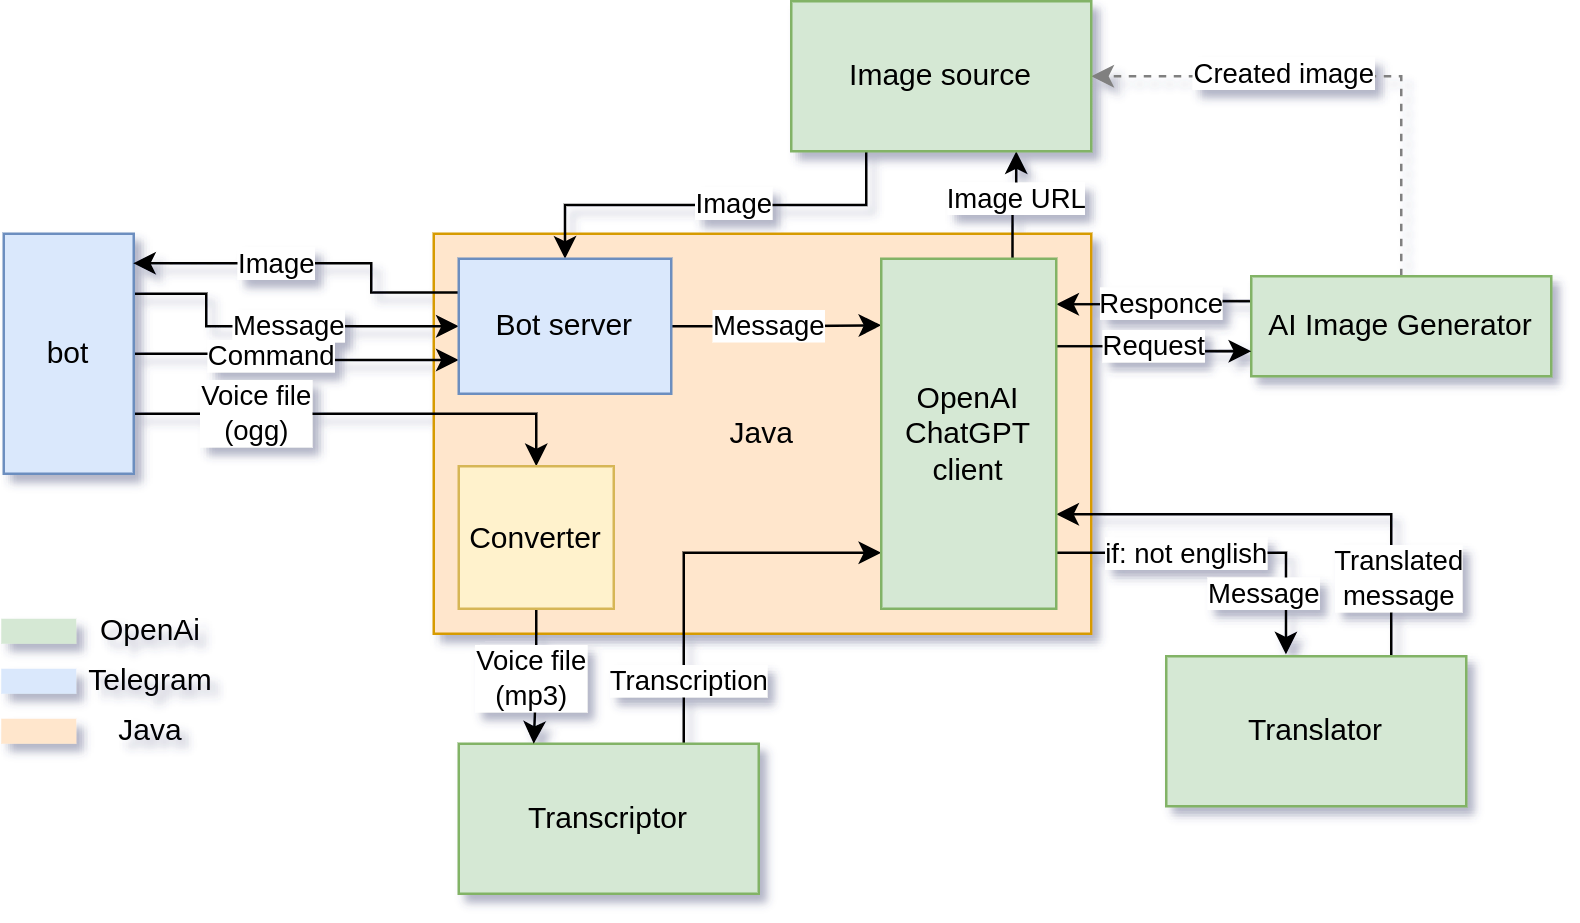
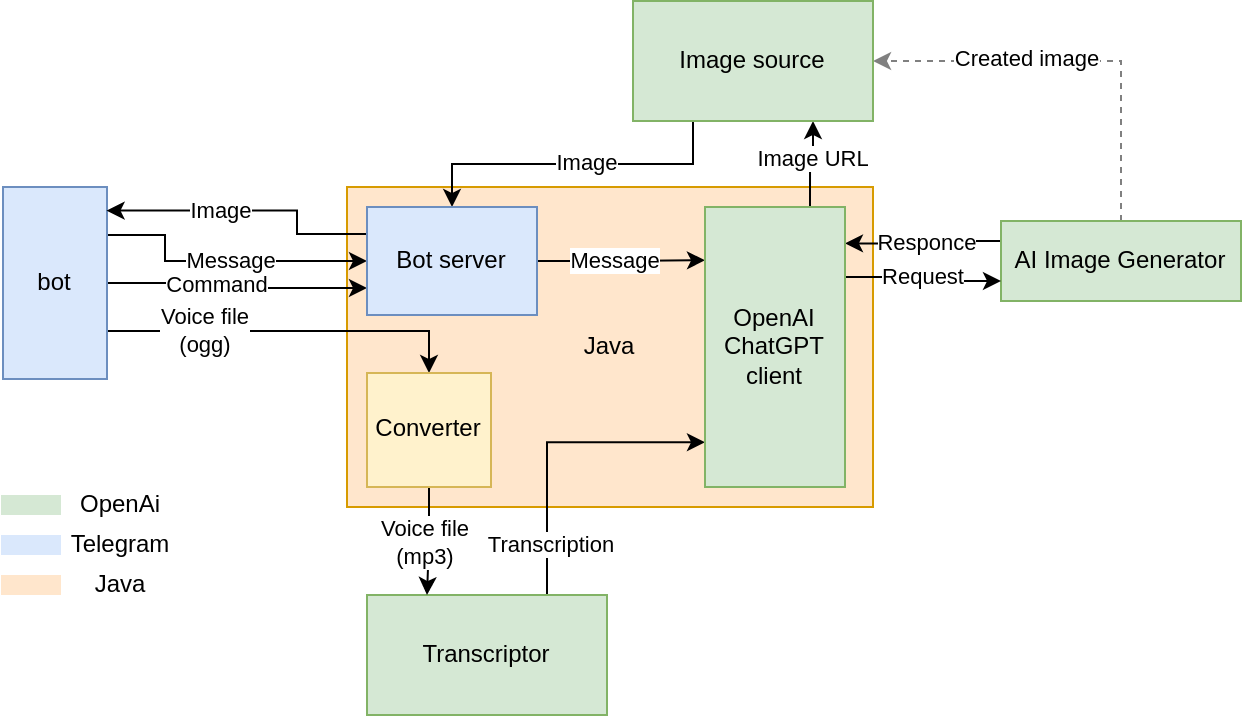
IG-19: Configured audio conversions. Configured sending audio to OpenAI for transcriptions

Changed region(s): [[0.0, 0.0, 1.0, 1.0], [0.0, 0.6435, 0.153, 0.8273], [0.4589, 0.4596, 0.5201, 0.4903]]

diff --git a/src/main/java/com/vansisto/aiimagebot/services/converter/AudioConverter.java b/src/main/java/com/vansisto/aiimagebot/services/converter/AudioConverter.java
@@ -1,0 +1,74 @@
+package com.vansisto.aiimagebot.services.converter;
+
+import lombok.extern.slf4j.Slf4j;
+
+import java.io.BufferedReader;
+import java.io.File;
+import java.io.IOException;
+import java.io.InputStreamReader;
+import java.util.concurrent.CompletableFuture;
+
+@Slf4j
+public class AudioConverter {
+
+    private AudioConverter(){}
+
+    public static CompletableFuture<File> convertOggToMp3(File sourceOggFile, File targetMp3File) {
+        return CompletableFuture.supplyAsync(() -> {
+            File outputDirectory = createOutputDirectory("voiceOutput");
+            File outputFile = new File(outputDirectory, targetMp3File.getName());
+            executeFFmpeg(sourceOggFile, outputFile);
+
+            return outputFile;
+        });
+    }
+
+    private static File createOutputDirectory(String directoryName) {
+        File outputDirectory = new File(directoryName);
+        if (!outputDirectory.exists()) {
+            outputDirectory.mkdir();
+        }
+        return outputDirectory;
+    }
+
+    private static void executeFFmpeg(File sourceOggFile, File outputFile) {
+        ProcessBuilder processBuilder = new ProcessBuilder(
+                "ffmpeg",
+                "-i", sourceOggFile.getAbsolutePath(),
+                "-codec:a", "libmp3lame",
+                "-qscale:a", "5",
+                "-b:a", "96k",
+                "-ar", "22050",
+                "-ac", "1",
+                "-filter:a", "loudnorm,atempo=1.5",
+                outputFile.getAbsolutePath()
+        );
+
+        try {
+            Process process = processBuilder.start();
+            logProcessOutput(process);
+            int exitCode = process.waitFor();
+            log.info(exitCode == 0 ? "Convert done." : "An error occurred during conversion. Code: " + exitCode);
+        } catch (IOException e) {
+            e.printStackTrace();
+        } catch (InterruptedException e) {
+            e.printStackTrace();
+            Thread.currentThread().interrupt();        }
+    }
+
+    private static void logProcessOutput(Process process) throws IOException {
+        try (BufferedReader stdoutReader = new BufferedReader(new InputStreamReader(process.getInputStream()))) {
+            String line;
+            while ((line = stdoutReader.readLine()) != null) {
+                log.info("STDOUT: " + line);
+            }
+        }
+
+        try (BufferedReader stderrReader = new BufferedReader(new InputStreamReader(process.getErrorStream()))) {
+            String line;
+            while ((line = stderrReader.readLine()) != null) {
+                log.error("STDERR: " + line);
+            }
+        }
+    }
+}

diff --git a/src/main/java/com/vansisto/aiimagebot/services/bot/handler/handlers/VoiceHandler.java b/src/main/java/com/vansisto/aiimagebot/services/bot/handler/handlers/VoiceHandler.java
@@ -5,20 +5,62 @@ import com.pengrad.telegrambot.model.Voice;
 import com.pengrad.telegrambot.request.SendMessage;
 import com.vansisto.aiimagebot.services.bot.handler.AbstractHandler;
 import com.vansisto.aiimagebot.services.bot.handler.UpdateHandler;
+import com.vansisto.aiimagebot.services.converter.AudioConverter;
+import com.vansisto.aiimagebot.services.converter.TelegramFileDownloader;
+import com.vansisto.aiimagebot.services.openai.RequestsExecutor;
+import lombok.extern.slf4j.Slf4j;
+import org.springframework.beans.factory.annotation.Autowired;
 import org.springframework.stereotype.Service;
 
+import java.io.File;
+import java.io.IOException;
+import java.nio.file.Files;
 import java.util.Objects;
+import java.util.concurrent.CompletableFuture;
 
 import static com.vansisto.aiimagebot.services.UpdateUtil.getChatId;
 import static com.vansisto.aiimagebot.services.UpdateUtil.getVoice;
 
+@Slf4j
 @Service
 public class VoiceHandler extends AbstractHandler implements UpdateHandler {
+
+    @Autowired
+    private TelegramFileDownloader telegramFileDownloader;
+
     @Override
     public void handle(Update update) {
         Voice voice = getVoice(update);
         long chatId = getChatId(update);
-        bot.execute(new SendMessage(chatId, "Це аудіофайл: " + voice.fileId()));
+
+        try {
+            File sourceOggFile = telegramFileDownloader.downloadVoiceFile(voice);
+            File targetMp3File = new java.io.File(update.updateId() + ".mp3");
+            CompletableFuture<File> conversionFuture = AudioConverter.convertOggToMp3(sourceOggFile, targetMp3File);
+            String token = settingsService.getOpenAiApiKey();
+
+            conversionFuture.thenAccept(convertedFile -> {
+                String response = RequestsExecutor.sendTranscriptionRequest(token, convertedFile);
+                bot.execute(new SendMessage(chatId, response));
+
+                try {
+                    Files.delete(sourceOggFile.toPath());
+                    log.info("Source deleted.");
+                } catch (IOException e) {
+                    log.error("Failed to delete source file: ", e);
+                }
+
+                try {
+                    Files.delete(convertedFile.toPath());
+                    log.info("Output file deleted.");
+                } catch (IOException e) {
+                    log.error("Failed to delete output file: ", e);
+                }
+            });
+
+        } catch (IOException e) {
+            e.printStackTrace();
+        }
     }
 
     @Override

diff --git a/src/main/java/com/vansisto/aiimagebot/services/settings/service/impl/SettingsServiceImpl.java b/src/main/java/com/vansisto/aiimagebot/services/settings/service/impl/SettingsServiceImpl.java
@@ -1,6 +1,7 @@
 package com.vansisto.aiimagebot.services.settings.service.impl;
 
 import com.pengrad.telegrambot.model.Update;
+import com.vansisto.aiimagebot.config.UpdateCache;
 import com.vansisto.aiimagebot.services.settings.KeySetting;
 import com.vansisto.aiimagebot.services.settings.UpdateType;
 import com.vansisto.aiimagebot.services.settings.UserSetting;
@@ -31,14 +32,16 @@ public class SettingsServiceImpl implements SettingsService {
     @Value("${app.openai.token:}")
     private String aiApiKey;
 
-    private final HashOperations<String, String, String> hashOperations;
     private static final String KEY = "KeySetting";
+    private final HashOperations<String, String, String> hashOperations;
     private final UsersCache usersCache;
+    private final UpdateCache updateCache;
 
     public SettingsServiceImpl(RedisTemplate<String, String> redisTemplate,
-                               UsersCache usersCache) {
+                               UsersCache usersCache, UpdateCache updateCache) {
         hashOperations = redisTemplate.opsForHash();
         this.usersCache = usersCache;
+        this.updateCache = updateCache;
     }
 
     @PostConstruct
@@ -66,6 +69,11 @@ public class SettingsServiceImpl implements SettingsService {
                 : map.entrySet().stream()
                     .map(entry -> new KeySetting(entry.getKey(), entry.getValue()))
                     .collect(Collectors.toSet());
+    }
+
+    @Override
+    public String getOpenAiApiKey() {
+        return usersCache.getByUpdate(updateCache.getUpdate()).getOpenAiApiKey();
     }
 
     @Override

diff --git a/src/main/java/com/vansisto/aiimagebot/services/openai/requests/transcript/Transcription.java b/src/main/java/com/vansisto/aiimagebot/services/openai/requests/transcript/Transcription.java
@@ -1,0 +1,36 @@
+package com.vansisto.aiimagebot.services.openai.requests.transcript;
+
+import com.vansisto.aiimagebot.services.settings.UsersCache;
+import lombok.RequiredArgsConstructor;
+import okhttp3.MediaType;
+import okhttp3.MultipartBody;
+import okhttp3.Request;
+import okhttp3.RequestBody;
+import org.springframework.stereotype.Component;
+
+import java.io.File;
+
+@Component
+@RequiredArgsConstructor
+public class Transcription {
+    private static final MediaType MEDIA_TYPE_MP3 = MediaType.parse("audio/mp3");
+
+    private final UsersCache usersCache;
+
+    public static Request createRequest(String token, File file) {
+        RequestBody requestBody = new MultipartBody.Builder()
+                .setType(MultipartBody.FORM)
+                .addFormDataPart("file", file.getName(), RequestBody.create(file, MEDIA_TYPE_MP3))
+                .addFormDataPart("model", "whisper-1")
+                .addFormDataPart("response_format", "text")
+                .build();
+
+        return new Request.Builder()
+                .url("https://api.openai.com/v1/audio/translations")
+                .post(requestBody)
+                .header("Authorization", "Bearer " + token)
+                .header("Content-Type", "multipart/form-data")
+                .build();
+
+    }
+}

diff --git a/src/main/java/com/vansisto/aiimagebot/services/converter/TelegramFileDownloader.java b/src/main/java/com/vansisto/aiimagebot/services/converter/TelegramFileDownloader.java
@@ -1,0 +1,33 @@
+package com.vansisto.aiimagebot.services.converter;
+
+import com.pengrad.telegrambot.TelegramBot;
+import com.pengrad.telegrambot.model.File;
+import com.pengrad.telegrambot.model.Voice;
+import com.pengrad.telegrambot.request.GetFile;
+import com.pengrad.telegrambot.response.GetFileResponse;
+import lombok.RequiredArgsConstructor;
+import org.springframework.stereotype.Component;
+
+import java.io.FileOutputStream;
+import java.io.IOException;
+import java.nio.file.Paths;
+
+@Component
+@RequiredArgsConstructor
+public class TelegramFileDownloader {
+    private final TelegramBot bot;
+
+    public java.io.File downloadVoiceFile(Voice voice) throws IOException {
+        GetFile getFileRequest = new GetFile(voice.fileId());
+        GetFileResponse getFileResponse = bot.execute(getFileRequest);
+        File file = getFileResponse.file();
+
+        byte[] fileContent = bot.getFileContent(file);
+        java.io.File voiceFile = Paths.get(System.getProperty("user.dir"), "voices", voice.fileId() + ".ogg").toFile();
+        voiceFile.getParentFile().mkdirs();
+        try (FileOutputStream outputStream = new FileOutputStream(voiceFile)) {
+            outputStream.write(fileContent);
+        }
+        return voiceFile;
+    }
+}

diff --git a/src/main/java/com/vansisto/aiimagebot/services/openai/RequestsExecutor.java b/src/main/java/com/vansisto/aiimagebot/services/openai/RequestsExecutor.java
@@ -1,0 +1,34 @@
+package com.vansisto.aiimagebot.services.openai;
+
+import com.vansisto.aiimagebot.services.openai.requests.transcript.Transcription;
+import lombok.extern.slf4j.Slf4j;
+import okhttp3.OkHttpClient;
+import okhttp3.Request;
+import okhttp3.Response;
+
+import java.io.File;
+import java.io.IOException;
+import java.time.Duration;
+
+@Slf4j
+public class RequestsExecutor {
+
+    private RequestsExecutor(){}
+
+    private static OkHttpClient client = new OkHttpClient.Builder()
+            .connectTimeout(Duration.ofSeconds(50))
+            .writeTimeout(Duration.ofSeconds(50))
+            .readTimeout(Duration.ofSeconds(50))
+            .build();
+
+    public static String sendTranscriptionRequest(String token, File file) {
+        Request request = Transcription.createRequest(token, file);
+        log.info("Transcription request sent...");
+        try(Response response = client.newCall(request).execute()) {
+            return response.isSuccessful() ? response.body().string() : "Fail: " + response.message();
+        } catch (IOException e) {
+            e.printStackTrace();
+        }
+        return null;
+    }
+}

diff --git a/src/main/java/com/vansisto/aiimagebot/services/settings/UsersCache.java b/src/main/java/com/vansisto/aiimagebot/services/settings/UsersCache.java
@@ -74,4 +74,8 @@ public class UsersCache {
             existingUserSetting.setLocale(userSetting.getLocale());
         }
     }
+
+    public UserSetting getByUpdate(Update update) {
+        return getByUserId(getUserId(update));
+    }
 }

diff --git a/src/main/java/com/vansisto/aiimagebot/services/settings/service/SettingsService.java b/src/main/java/com/vansisto/aiimagebot/services/settings/service/SettingsService.java
@@ -15,4 +15,5 @@ public interface SettingsService {
     UserSetting getOrInitSetting(Update update);
     Locale getLocale(Update update);
     Set<KeySetting> getAll();
+    String getOpenAiApiKey();
 }

diff --git a/README.md b/README.md
@@ -1,0 +1,23 @@
+# OpenAI Image Generator Telegram Bot
+
+This bot supports generating images from "voices".
+
+## Prerequisites
+
+You must have [ffmpeg][1] installed to provide audio conversions from the Ogg (Telegram) format to the MP3 (OpenAI required) format.
+
+## Configuration
+
+To store OpenAI API keys, you need to have a Redis server.
+
+Also, you should configure the following environment variables:
+
+| Env Variable               | Value Description                                               | Required |
+|----------------------------|-----------------------------------------------------------------|----------|
+| APP_OPENAI_TOKEN           | Provide if you are going to use it for yourself. Set by default | false    |
+| APP_TELEGRAM_BOT_TOKEN     | Telegram API Token                                              | true     |
+| SPRING_DATA_REDIS_HOST     | Your Redis server URL                                           | true     |
+| SPRING_DATA_REDIS_PASSWORD | Redis password                                                  | true     |
+| SPRING_DATA_REDIS_PORT     | Redis port                                                      | true     |
+
+[1]: https://www.hostinger.com/tutorials/how-to-install-ffmpeg
